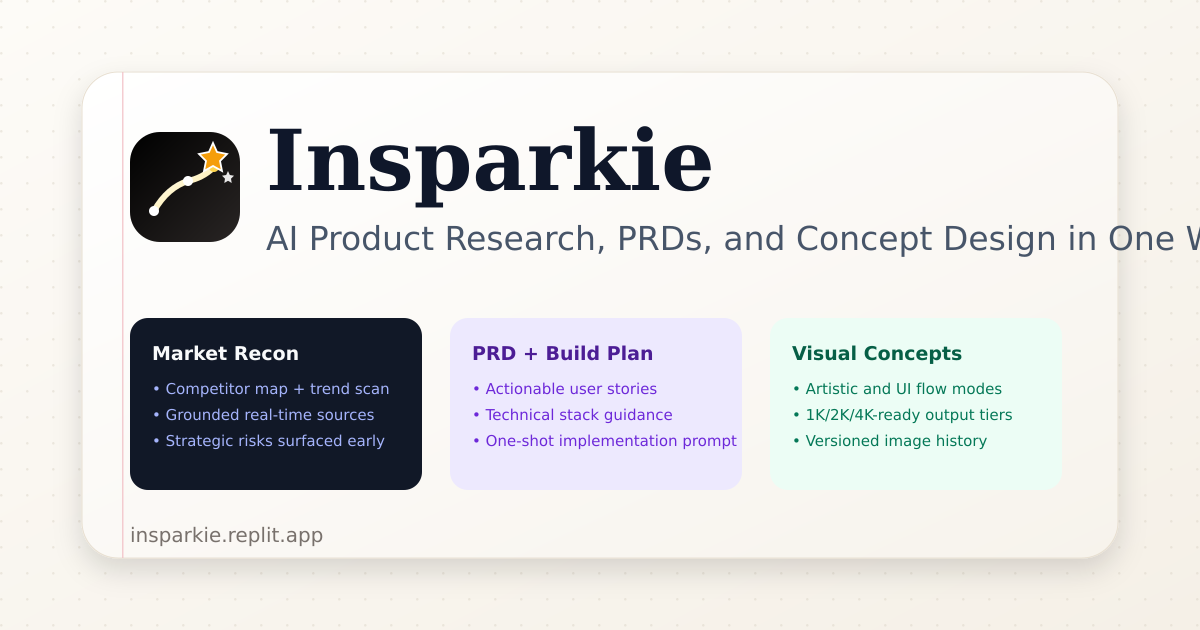
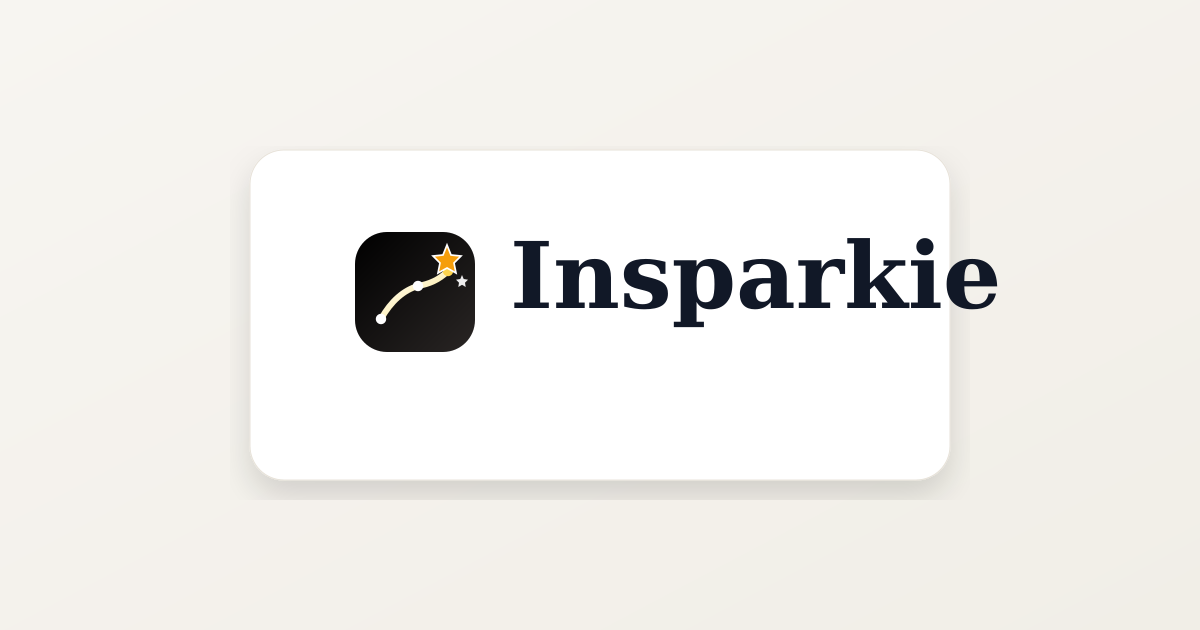
Published your App
Replit-Commit-Author: Deployment
Replit-Commit-Session-Id: 5795f136-f31f-46e5-a978-efcfad3faf35
Replit-Commit-Checkpoint-Type: full_checkpoint
Replit-Commit-Event-Id: 7166b53e-b254-4903-9a6b-e132292f6cfb
Replit-Commit-Screenshot-Url: https://storage.googleapis.com/screenshot-production-us-central1/f0ec6748-73a3-4304-8630-185afffde3e3/5795f136-f31f-46e5-a978-efcfad3faf35/LOJ2Jfa
Replit-Commit-Deployment-Build-Id: 815f5be9-e9a9-4407-add1-b6b83587a4f5
Replit-Helium-Checkpoint-Created: true

Changed region(s): [[0.0925, 0.181, 1.0, 0.8143], [0.4008, 0.6032, 0.6167, 0.7238], [0.0925, 0.8444, 0.2775, 0.8746]]

diff --git a/index.html b/index.html
@@ -31,8 +31,8 @@
     <meta property="og:url" content="https://insparkie.replit.app/" />
     <meta property="og:title" content="Insparkie | AI Product Research, PRD, and Concept Design Workspace" />
     <meta property="og:description" content="Research, plan, and visualize product ideas with AI. Generate PRDs, market recon, one-shot prompts, and concept visuals in one workspace." />
-    <meta property="og:image" content="https://insparkie.replit.app/og-image.png?v=20260218" />
-    <meta property="og:image:secure_url" content="https://insparkie.replit.app/og-image.png?v=20260218" />
+    <meta property="og:image" content="https://insparkie.replit.app/og-image.png?v=20260218b" />
+    <meta property="og:image:secure_url" content="https://insparkie.replit.app/og-image.png?v=20260218b" />
     <meta property="og:image:type" content="image/png" />
     <meta property="og:image:width" content="1200" />
     <meta property="og:image:height" content="630" />
@@ -41,7 +41,7 @@
     <meta name="twitter:card" content="summary_large_image" />
     <meta name="twitter:title" content="Insparkie | AI Product Research Workspace" />
     <meta name="twitter:description" content="Generate PRDs, market research, and concept images with AI in one product studio." />
-    <meta name="twitter:image" content="https://insparkie.replit.app/og-image.png?v=20260218" />
+    <meta name="twitter:image" content="https://insparkie.replit.app/og-image.png?v=20260218b" />
     <meta name="twitter:image:alt" content="Insparkie workspace showing AI idea research and concept generation" />
 
     <script type="application/ld+json">
@@ -89,7 +89,7 @@
         "Concept Image Generation",
         "Grounded Web Research"
       ],
-      "screenshot": "https://insparkie.replit.app/og-image.png?v=20260218"
+      "screenshot": "https://insparkie.replit.app/og-image.png?v=20260218b"
     }
     </script>
 
